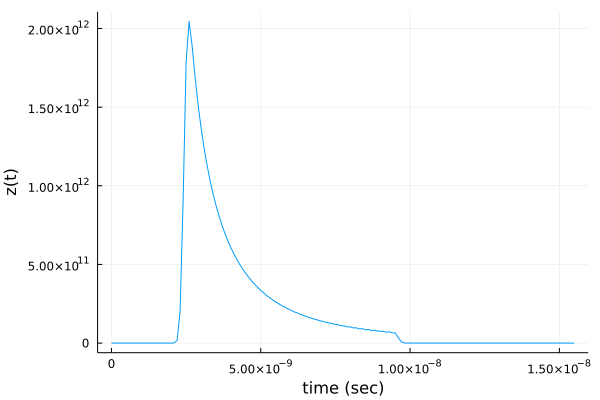
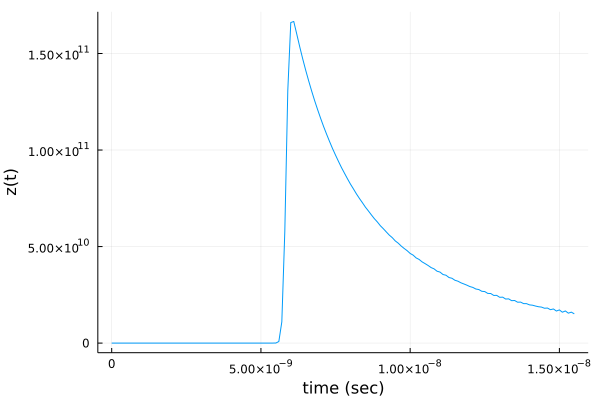
scenario E plot

diff --git a/docs/src/omniDirectionalLTI/omnidirLTIsource.md b/docs/src/omniDirectionalLTI/omnidirLTIsource.md
@@ -365,20 +365,14 @@ using QuadGK
 using Plots
 𝐩ₛ =  [0.0, 0.3]
 𝐩ᵣ =  [-0.3, 0.0]
-ξ₀=[0.0,0.3]
+ξ₀=[0.2,0.3]
 α₀ = 0.6;
-L = collect(range(1.0, 2.0, step=0.025))
-g(k) = ξ₀ .+ k.*[0.0,1.0]
-temp = quadgk.(g, 0.0, L)
-value = [α₀*(temp[i][1]) for i in 1:length(L)]
+u_vec = [1/√(2),1/√(2)]
+step = 0.015;
+line_seg = [quadgk(x->ξ₀ .+ x.*u_vec,0.0,i+step)[1] for i in 1.0:step:2.0]
 p(t) = δ(t,1.0e-10)
-W = []
 q = LTIsourceO(𝐩ₛ, p)
-for i in 1:length(value)
-    R₁ = LTIsourceO(value[i], t->q(value[i],t))
-    push!(W,R₁)
-end
-z = LTIreceiverO(W,𝐩ᵣ)
+z = LTIreceiverO([LTIsourceO(line_seg[i], t->α₀*q(line_seg[i],t)) for i in 1:length(line_seg)],𝐩ᵣ)
 t = collect(0.0:1.0e-10:15.5e-9)
 p1 = plot( t, z(t), xlab="time (sec)", ylab="z(t)", legend=:false)
 display(p1)
@@ -401,36 +395,33 @@ using QuadGK
 using Plots
 𝐩ₛ =  [0.0, 0.3]
 𝐩ᵣ =  [-0.3, 0.0]
-ξ₀=[0.0,0.3]
+ξ₀=[0.2,0.3]
 α₀ = 0.6;
-L = collect(range(1.0, 2.0, step=0.025))
-g(k) = ξ₀ .+ k.*[0.0,1.0]
-temp = quadgk.(g, 0.0, L)
-value = [α₀*(temp[i][1]) for i in 1:length(L)]
+u_vec = [1/√(2),1/√(2)]
+step = 0.015;
+line_seg = [quadgk(x->ξ₀ .+ x.*u_vec,0.0,i+step)[1] for i in 1.0:step:2.0]
 p(t) = δ(t,1.0e-10)
-W = []
 q = LTIsourceO(𝐩ₛ, p)
-for i in 1:length(value)
-    R₁ = LTIsourceO(value[i], t->q(value[i],t))
-    push!(W,R₁)
-end
-z = LTIreceiverO(W,𝐩ᵣ)
-a₁(ξ::Vector{Float64}) = A(distBetween(ξ,𝐩ₛ)./lightSpeed).*A(distBetween(𝐩ᵣ,ξ)./lightSpeed)
-f(ξ::Vector{Float64})=(z((distBetween(ξ,𝐩ₛ) .+ distBetween(𝐩ᵣ,ξ))./lightSpeed))./(a₁(ξ::Vector{Float64}))
-T_val1 = map(x->x[1],value)
-T_val2 = map(x->x[2],value)
+z = LTIreceiverO([LTIsourceO(line_seg[i], t->α₀*q(line_seg[i],t))
+                 for i in 1:length(line_seg)],𝐩ᵣ)
+a₁(ξ::Vector{Float64}) = A(distBetween(ξ,𝐩ₛ)./lightSpeed).*A(distBetween(𝐩ᵣ,ξ)
+                           ./lightSpeed)
+f(ξ::Vector{Float64})=(z((distBetween(ξ,𝐩ₛ) .+ distBetween(𝐩ᵣ,ξ))./lightSpeed))
+                         ./(a₁(ξ::Vector{Float64}))
+T_val1 = map(x->x[1],line_seg)
+T_val2 = map(x->x[2],line_seg)
 line = Any[collect(zip(T_val1,T_val2))]
 Δpos = 0.01
 x_range = collect(-3:Δpos:3)
-y_range = collect(-2:Δpos:2)
+y_range = collect(-3:Δpos:3)
 xyGrid = [[x, y] for x in x_range, y in y_range]
 val = [f(𝐮) for 𝐮 ∈ xyGrid]
-p2=plot(x_range,y_range,transpose(val),st=:surface,camera=(0,90),
-       aspect_ratio=:equal,legend=false,zticks=false,title="Scenario E Simulation")
-plot!(p2,line[1],color = :red, lw=5)       
+p2 = plot(x_range,y_range,transpose(val),st=:surface,camera=(0,90),
+          aspect_ratio=:equal,legend=true,zticks=false,bg = RGB(0.0, 0.0, 0.0))
+plot!(p2,line[1],color = :red, lw=5,label='t')
 scatter!(p2,[𝐩ₛ[1]], [𝐩ₛ[2]],markersize = 8.5,color = :green,
          marker=:pentagon, label='s' )
-scatter!(p2,[𝐩ᵣ[1]], [𝐩ᵣ[2]],markersize = 8.5,color = :blue,
+scatter!(p2,[𝐩ᵣ[1]], [𝐩ᵣ[2]],markersize = 5.5,color = :blue,
          marker=:square, label='r' )
 display(p2)
 ```
